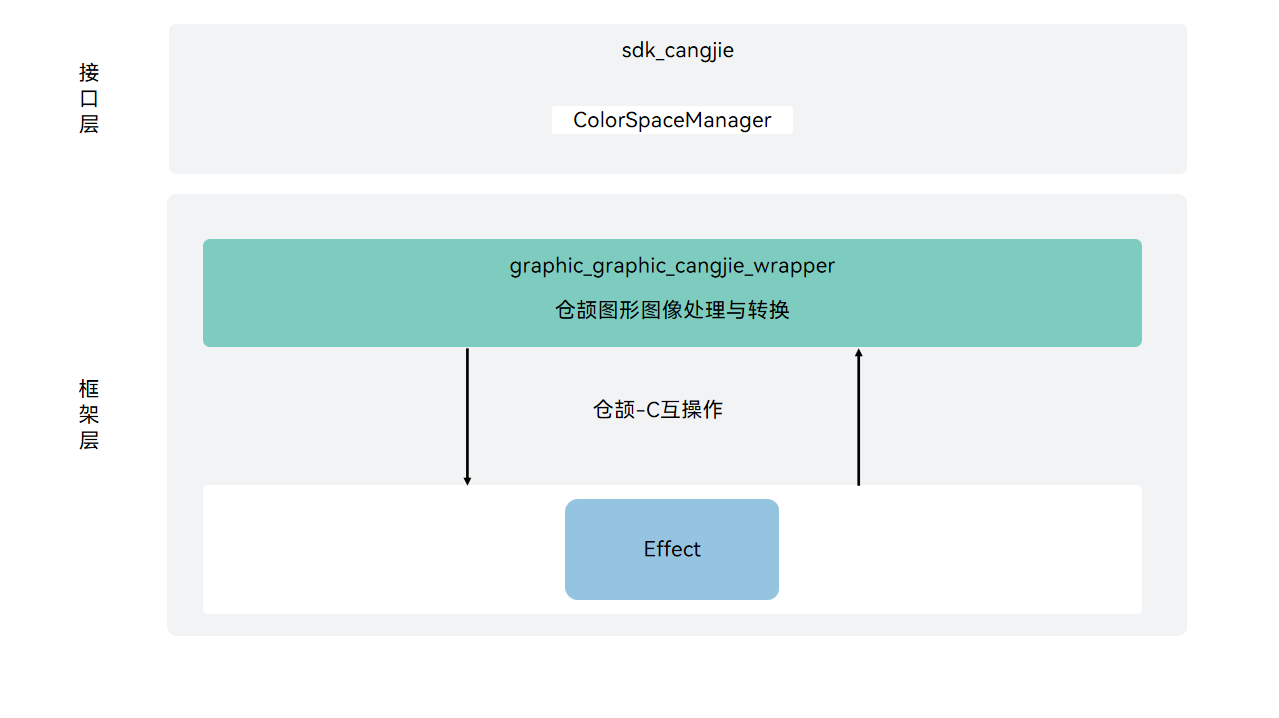
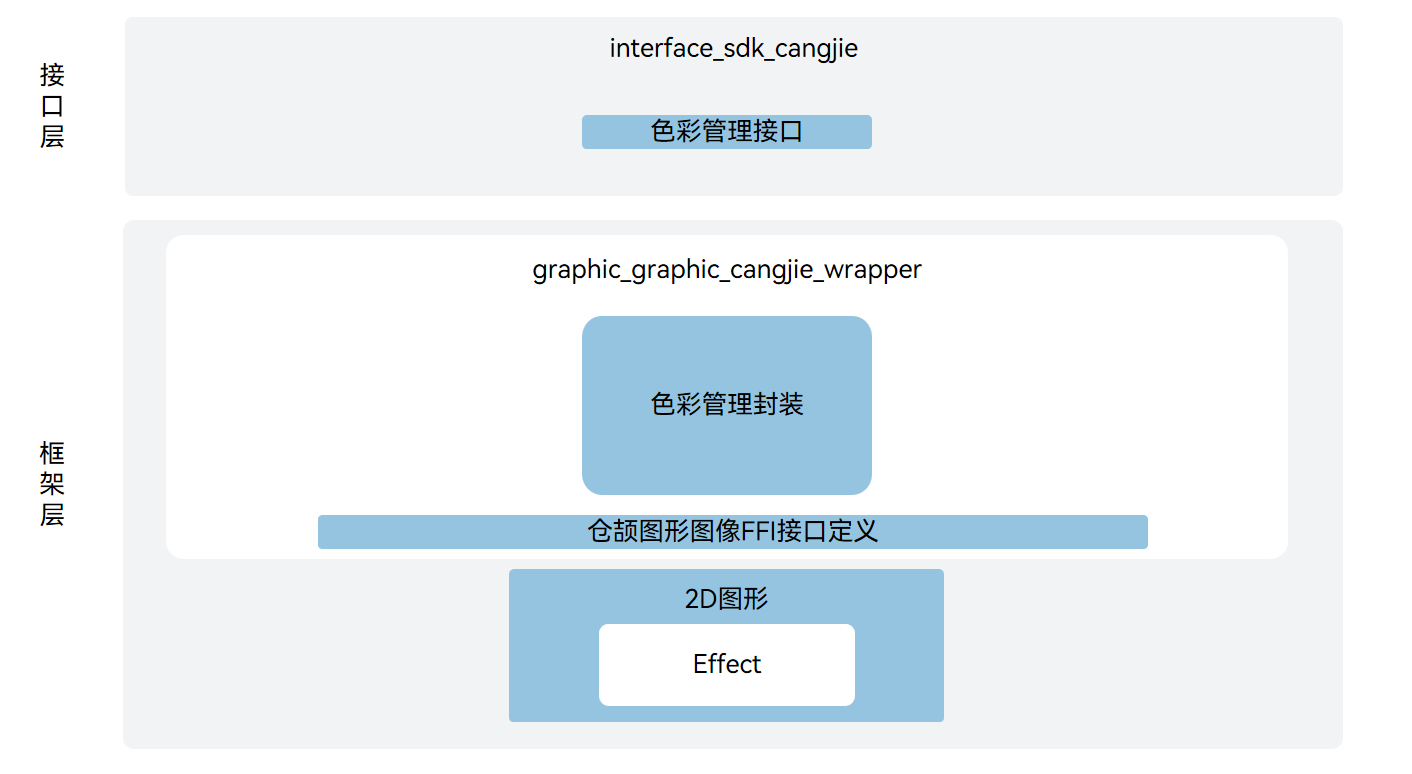
fix graphic README

diff --git a/README.md b/README.md
@@ -2,30 +2,42 @@
 
 ## Introduction
 
-The graphic_cangjie_wrapper is a Cangjie API encapsulated on OpenHarmony based on the capabilities of the Graphics Subsystem.The Graphics subsystem mainly consists of user interface (UI) components, layout, animator, font, input event, window management, and rendering and drawing modules. It is an application framework that can be built on the standard OS to develop OpenHarmony applications for standard- and large-system devices.
+The graphic_cangjie_wrapper is a Cangjie API encapsulated on OpenHarmony based on the capabilities of the Graphics Subsystem. The Graphics subsystem mainly consists of user interface (UI) components, layout, animator, font, input event, window management, and rendering and drawing modules. It is an application framework that can be built on the standard OS to develop OpenHarmony applications for standard and large-system devices.
 
 ## System Architecture
 
 The following figure shows the architecture of the Graphics subsystem.
 
-![Graphics subsystem architecture](figures/graphic_cangjie_wrapper_architecture_en.jpg)
+![Graphics subsystem architecture](figures/graphic_cangjie_wrapper_architecture_en.png)
+
+As shown in the architecture diagram:
+
+- Color Manager: Provide gamut-dependent configuration capabilities;
+- Cangjie graphics FFI interface definition: Responsible for defining the C-Interoperable Cangjie interface, which is used to realize Cangjie graphics;
+- Effect: Mainly completes the ability to process image effects, rendering effects and other effects, including: multi-effect series and parallel processing, adding rendering effects, control interaction effects and other related capabilities during layout.
 
 ## Directory Structure
 
 ```
 foundation/graphic/graphic_cangjie_wrapper
-├── ohos             # Cangjie Graphics Subsystem code
-├── kit              # Cangjie kit code
-├── figures          # architecture pictures
+├── figures                # architecture pictures
+├── kit                    # Cangjie Graphics kit code
+│   └── ArkGraphics2D      # Cangjie ArkGraphics2D code implementation
+└── ohos                   # Cangjie Graphics Subsystem code
+    └── graphics           # Cangjie Graphics code implementation
 ```
-
-## Constraints
-
-The currently open Graphic Cangjie api only supports standard devices.
 
 ## Usage Guidelines
 
-The currently provided feature is only Color Management.
+The current Cangjie Graphics interface provides only Color Management.
+
+Compared with ArkTS, the following functions are not supported at the moment:
+
+- The rendering capabilities of the UI framework;
+- 2D rendering, 3D rendering and rendering engine management;
+- Related capabilities of the animation engine;
+- Ability to process image effects, rendering effects;
+- The display and memory management capabilities.
 
 For Graphic-related APIs, please refer to [ohos.graphics.color_space_manager (Color Management)](https://gitcode.com/openharmony-sig/arkcompiler_cangjie_ark_interop/blob/master/doc/API_Reference/source_en/apis/ArkGraphics2D/cj-apis-color_manager.md).
 
@@ -36,3 +48,7 @@ Developers are welcome to contribute code, documentation, etc. For specific cont
 ## Repositories Involved
 
 - [graphic_graphic_2d](https://gitee.com/openharmony/graphic_graphic_2d/blob/master/README.md)
+
+- [cangjie_ark_interop](https://gitcode.com/openharmony-sig/arkcompiler_cangjie_ark_interop/blob/master/README.md)
+
+- [hiviewdfx_cangjie_wrapper](https://gitcode.com/openharmony-sig/hiviewdfx_hiviewdfx_cangjie_wrapper/blob/master/README.md)

diff --git a/README_zh.md b/README_zh.md
@@ -2,39 +2,54 @@
 
 ## 简介
 
-图形仓颉主要包括UI组件、布局、动画、字体、输入事件、窗口管理、渲染绘制等模块，构建基于标准OS的应用框架满足富设备的OpenHarmony系统应用开发。
-
-**图形仓颉**  提供了图形接口能力。
+图形图像仓颉接口是在OpenHarmony上基于图形子系统能力之上封装的仓颉API。图形子系统为OpenHarmony提供包括UI组件、布局、动画、字体、输入事件、窗口管理、渲染绘制等模块，构建基于标准OS的应用框架满足standard设备的OpenHarmony系统应用开发。
 
 ## 系统架构
 
 其主要的结构如下图所示：
 
-![图形仓颉架构图](figures/graphic_cangjie_wrapper_architecture_zh.png)
+![图形图像仓颉接口](figures/graphic_cangjie_wrapper_architecture_zh.png)
+
+如架构图所示：
+
+- 色彩管理：提供色域相关配置能力；
+- 仓颉图形图像FFI接口定义：负责定义C互操作仓颉接口，用于实现仓颉图形图像能力；
+- Effect：主要完成图片效果、渲染特效等效果处理的能力，包括：多效果的串联、并联处理，在布局时加入渲染特效、控件交互特效等相关能力。
 
 ## 目录
 
 ```
 foundation/graphic/graphic_cangjie_wrapper
-├── ohos             # 仓颉图形仓颉接口实现
-├── kit              # 仓颉kit化代码
-├── figures          # 存放readme中的架构图
+├── figures                # 存放README中的架构图
+├── kit                    # 仓颉图形图像kit化代码
+│   └── ArkGraphics2D      # 仓颉ArkGraphics2D实现
+└── ohos                   # 仓颉图形图像接口实现
+    └── graphics           # 仓颉图形接口实现
 ```
-
-## 约束
-
-当前开放的文件管理仓颉接口仅支持standard设备。
 
 ## 使用说明
 
-当前仅提供了色彩管理相关功能。
+图形图像仓颉接口当前仅提供了色彩管理相关功能。
 
-图形相关API请参见[ohos.graphics.color_space_manager（色彩管理）](https://gitcode.com/openharmony-sig/arkcompiler_cangjie_ark_interop/blob/master/doc/API_Reference/source_zh_cn/apis/ArkGraphics2D/cj-apis-color_manager.md)
+与ArkTS相比，暂不支持以下功能：
+
+- UI框架的绘制能力；
+- 2D渲染、3D渲染和渲染引擎的管理；
+- 动画引擎的相关能力；
+- 图片效果、渲染特效能力；
+- 显示与内存管理能力。
+
+
+图形相关API请参见[ohos.graphics.color_space_manager（色彩管理）](https://gitcode.com/openharmony-sig/arkcompiler_cangjie_ark_interop/blob/master/doc/API_Reference/source_zh_cn/apis/ArkGraphics2D/cj-apis-color_manager.md)。
 
 ## 参与贡献
 
-欢迎广大开发者贡献代码、文档等，具体的贡献流程和方式请参见[参与贡献](https://gitcode.com/openharmony/docs/blob/master/zh-cn/contribute/%E5%8F%82%E4%B8%8E%E8%B4%A1%E7%8C%AE.md)
+欢迎广大开发者贡献代码、文档等，具体的贡献流程和方式请参见[参与贡献](https://gitcode.com/openharmony/docs/blob/master/zh-cn/contribute/%E5%8F%82%E4%B8%8E%E8%B4%A1%E7%8C%AE.md)。
 
 ## 相关仓
 
 - [graphic_graphic_2d](https://gitee.com/openharmony/graphic_graphic_2d/blob/master/README_zh.md)
+
+- [cangjie_ark_interop](https://gitcode.com/openharmony-sig/arkcompiler_cangjie_ark_interop/blob/master/README_zh.md)
+
+- [hiviewdfx_cangjie_wrapper](https://gitcode.com/openharmony-sig/hiviewdfx_hiviewdfx_cangjie_wrapper/blob/master/README_zh.md)
